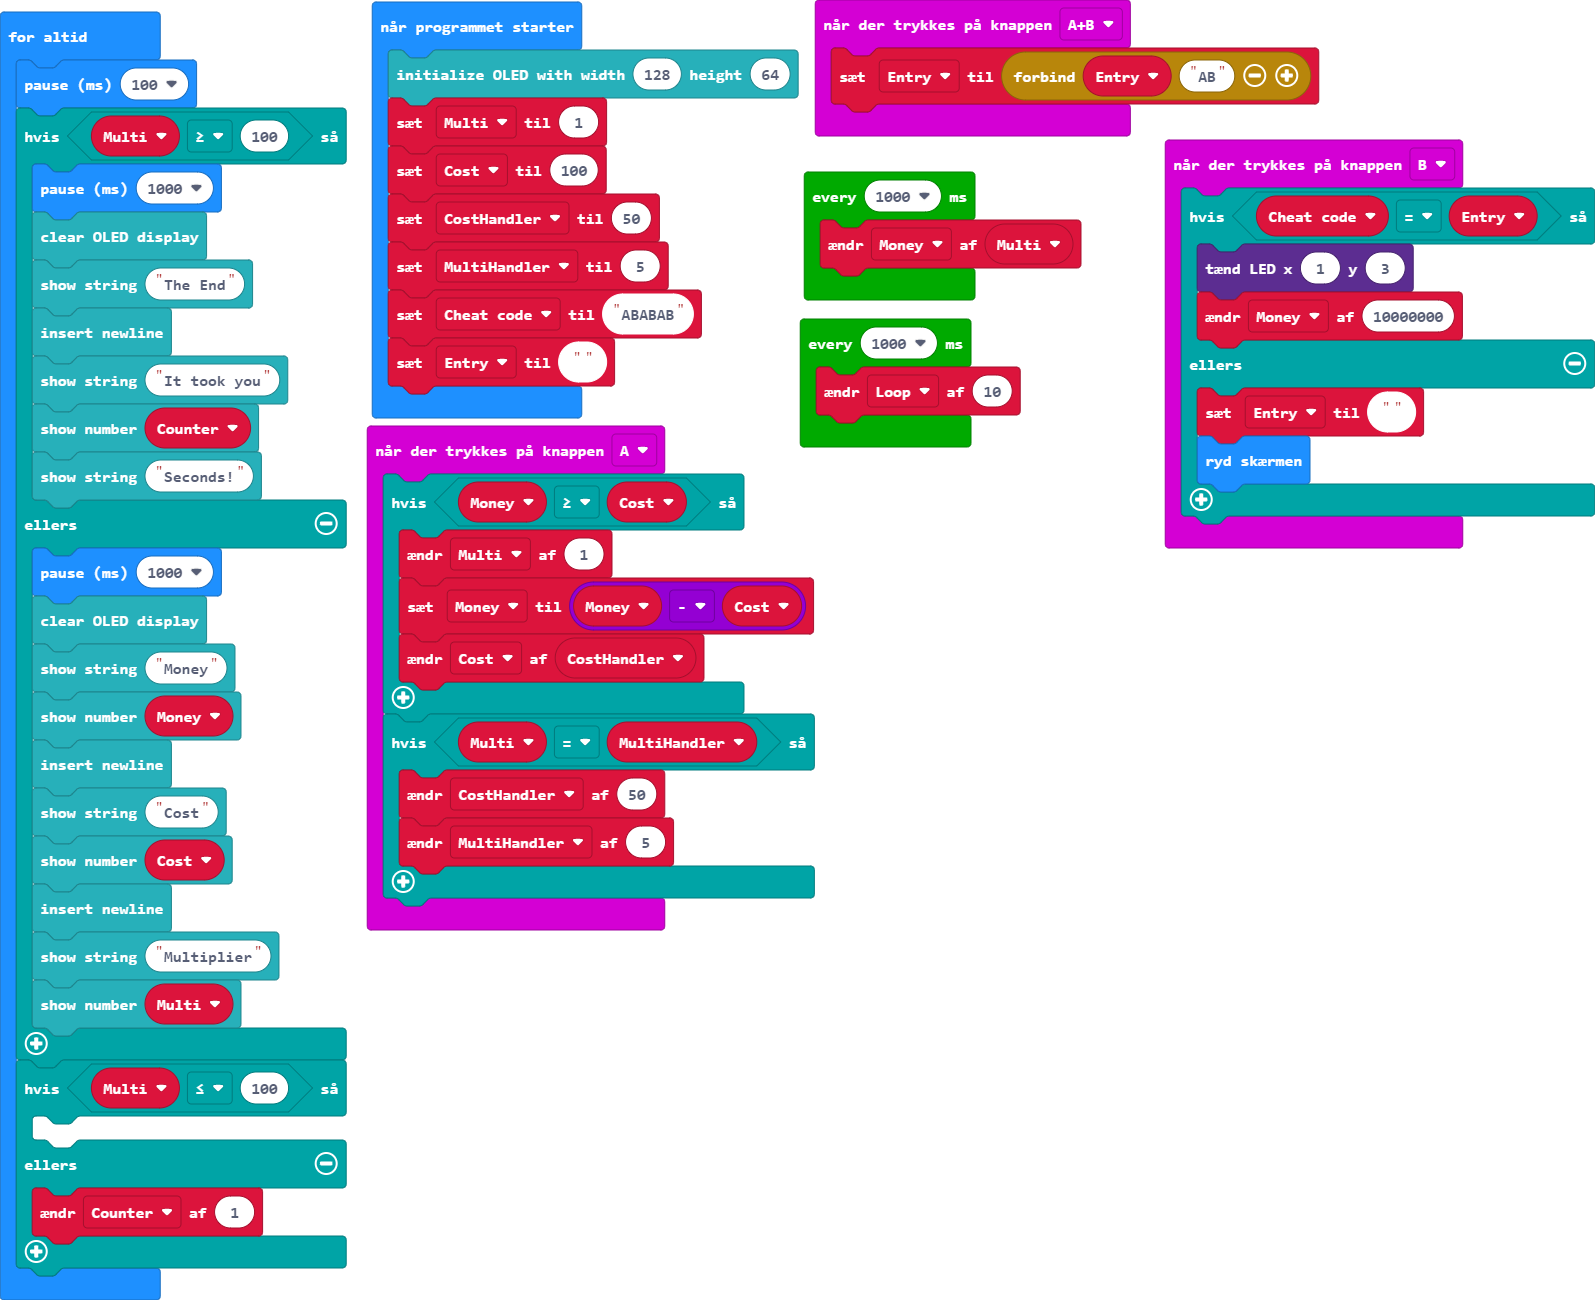
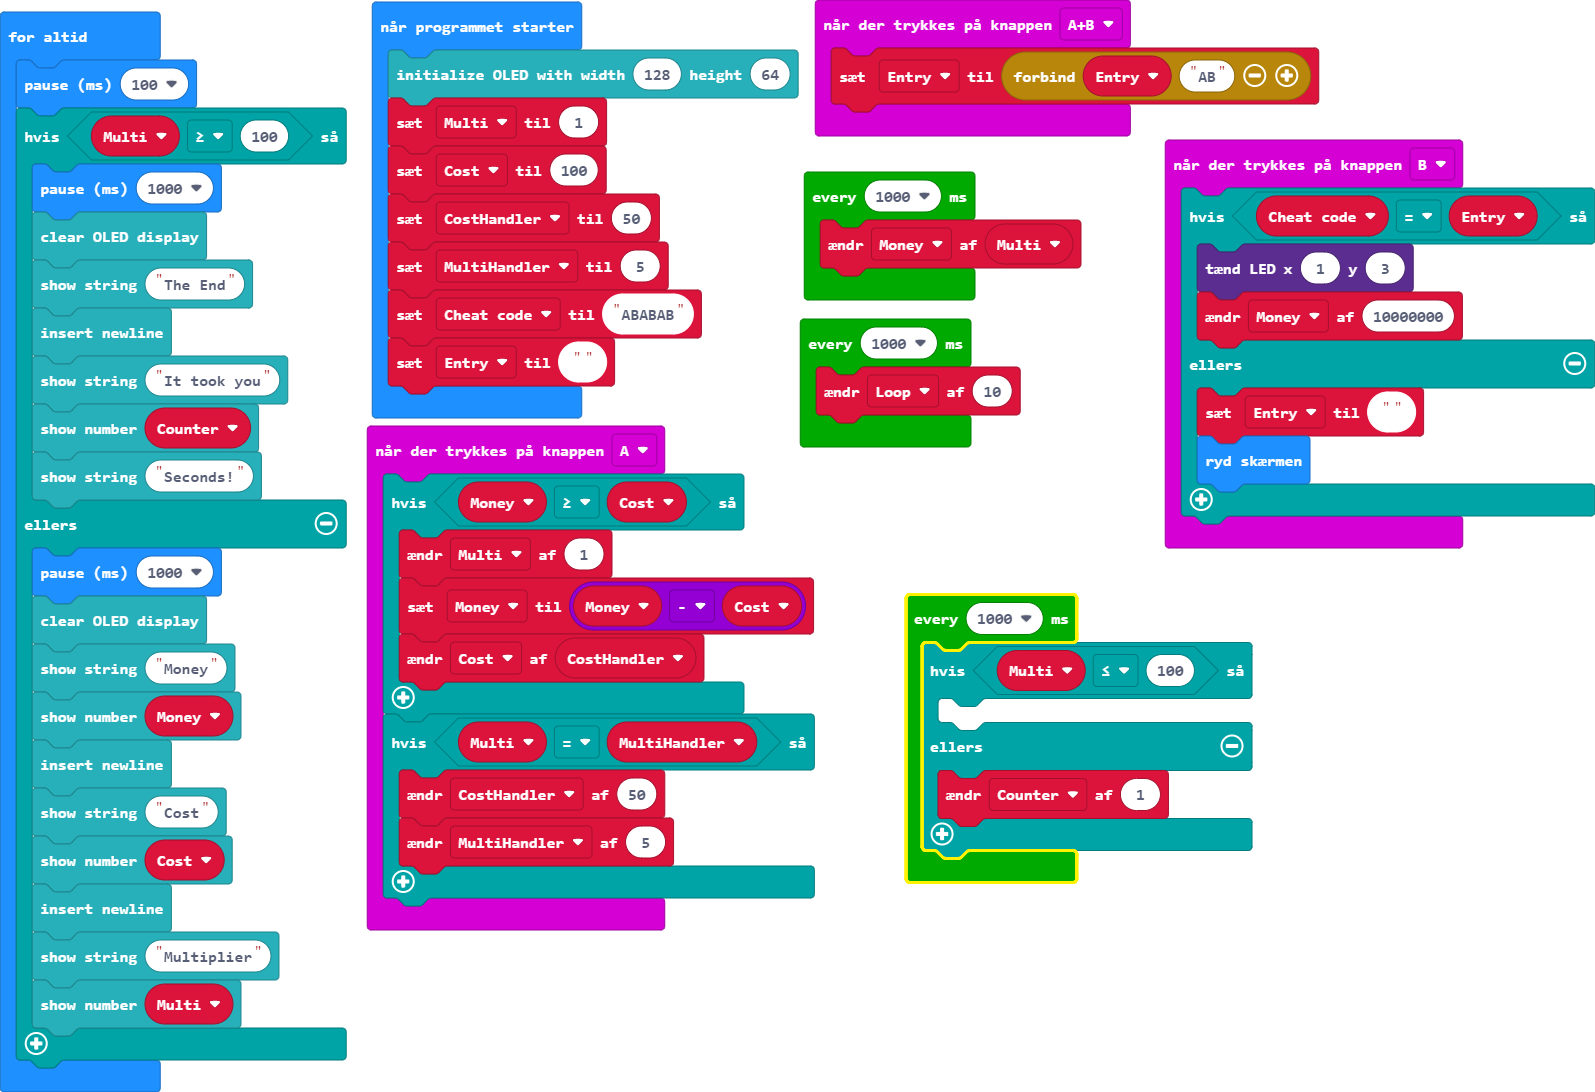
Actually fixed the seconds

diff --git a/main.ts b/main.ts
@@ -43,6 +43,13 @@ loops.everyInterval(1000, function () {
 loops.everyInterval(1000, function () {
     Loop += 10
 })
+loops.everyInterval(1000, function () {
+    if (Multi <= 100) {
+    	
+    } else {
+        Counter += 1
+    }
+})
 basic.forever(function () {
     basic.pause(100)
     if (Multi >= 100) {
@@ -64,10 +71,5 @@ basic.forever(function () {
         OLED.newLine()
         OLED.writeStringNewLine("Multiplier")
         OLED.writeNumNewLine(Multi)
-    }
-    if (Multi <= 100) {
-    	
-    } else {
-        Counter += 1
     }
 })
